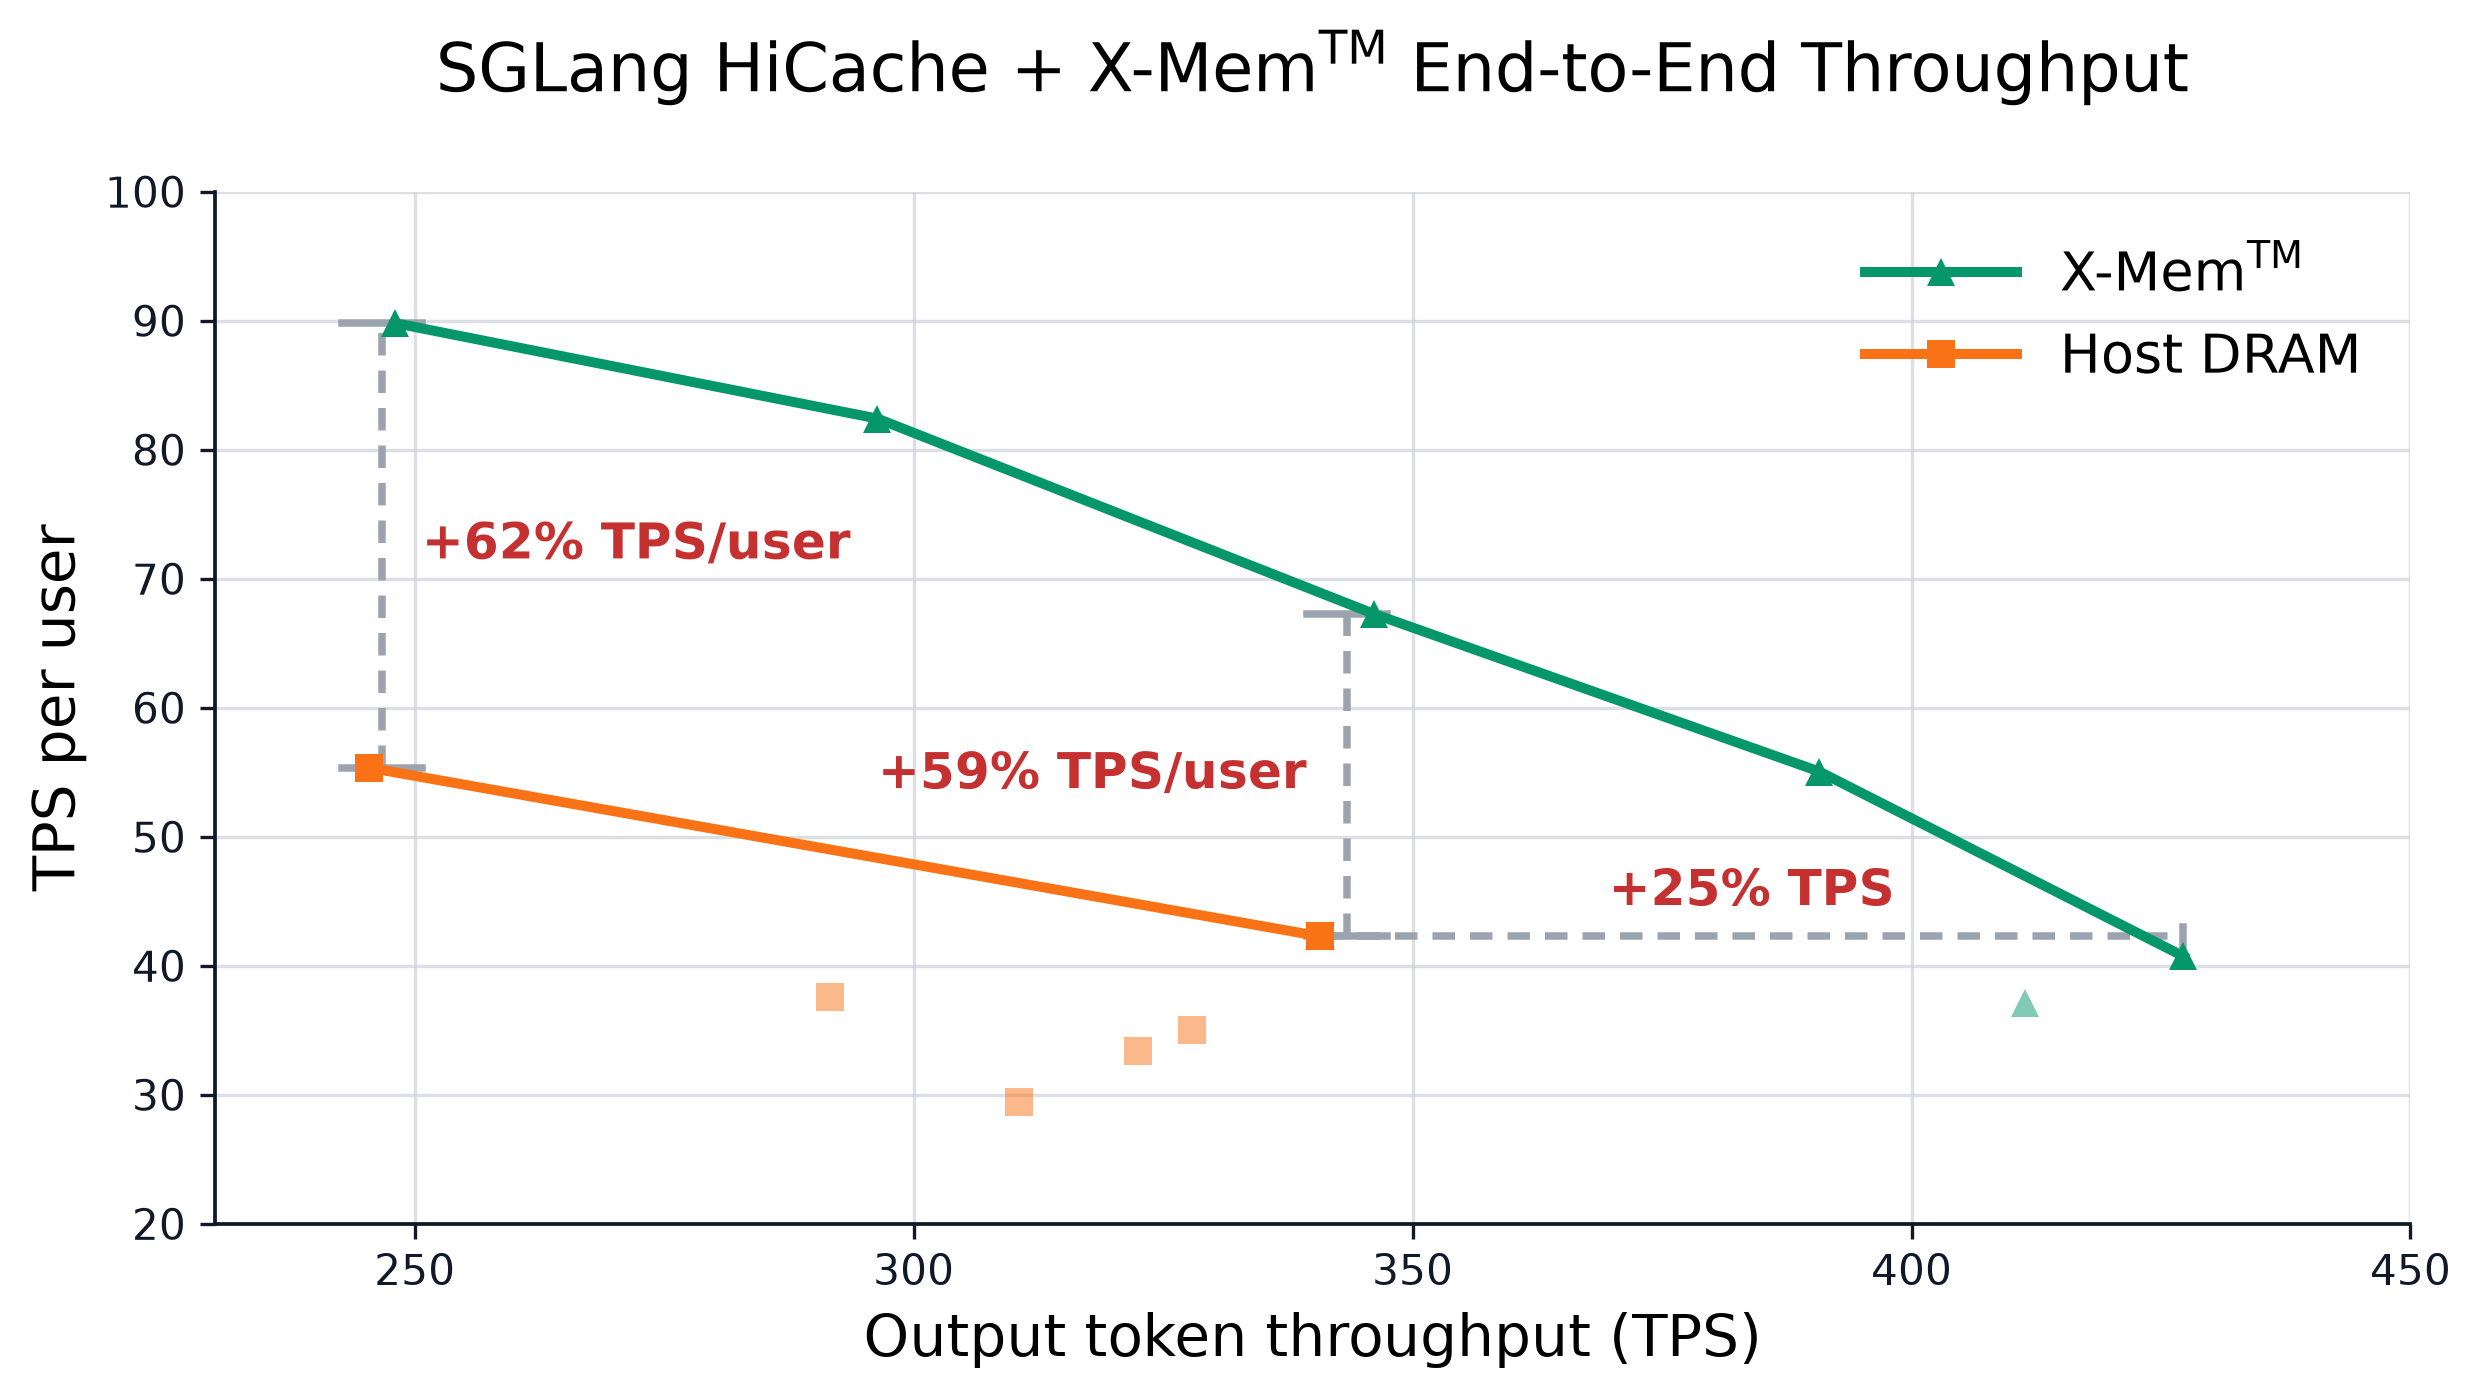
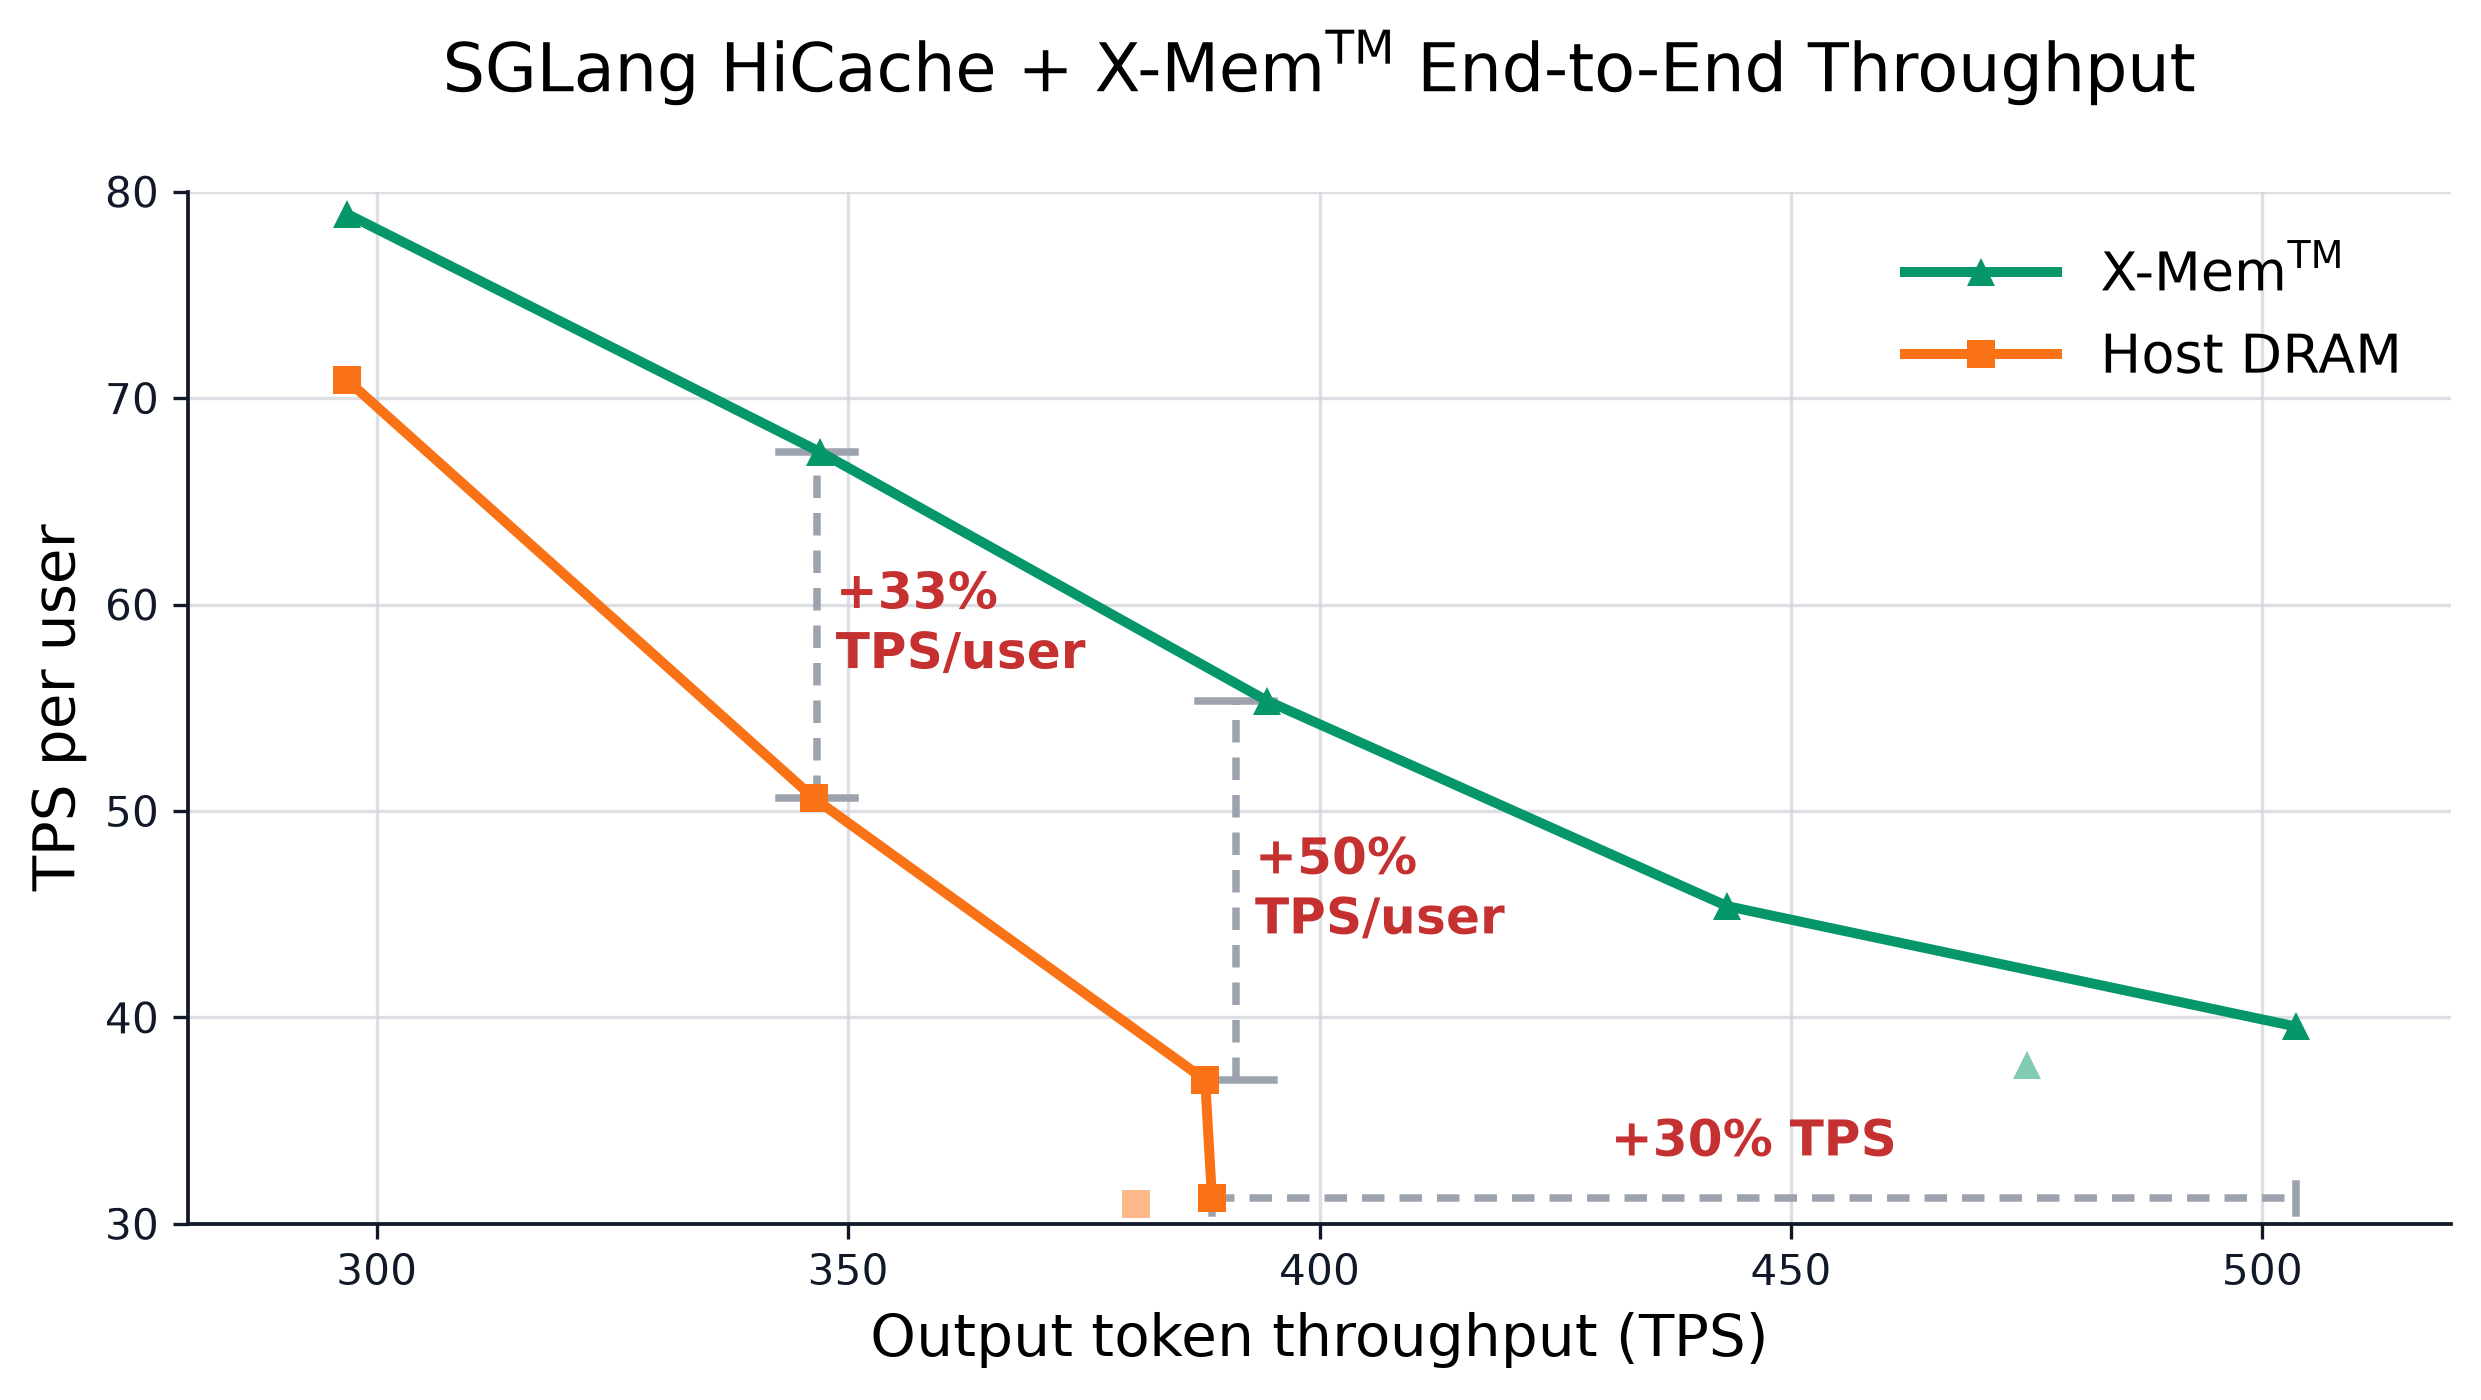
[blog] update figure of netpreme blog

diff --git a/blog/2026-06-27-netpreme-xmem.md b/blog/2026-06-27-netpreme-xmem.md
@@ -70,7 +70,7 @@ How does the above TTFT reduction translate into improvements in end-to-end LLM 
 
 ![Figure 5](/images/blog/netpreme-xmem/figure5.png)
 
-The result demonstrates that Netpreme’s X-Mem™ provides 62% higher TPS/user (interactivity) in a medium-load case and 59% higher interactivity and 25% higher TPS (system capacity) in a high-load case. This is because the GPU is utilized more efficiently, spending less time waiting for data to be copied on prefix cache hits.
+The result demonstrates that Netpreme's X-Mem™ provides 33% higher TPS/user (interactivity) in a medium-load case and 50% higher interactivity and 30% higher TPS (system capacity) in a high-load case. This is because the GPU is utilized more efficiently, spending less time waiting for data to be copied on prefix cache hits.
 
 ## Looking Ahead
 